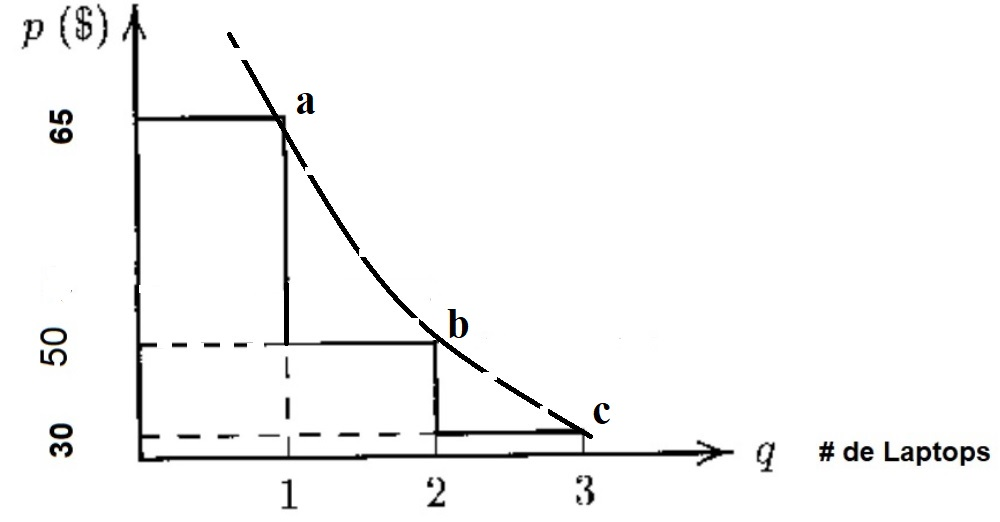
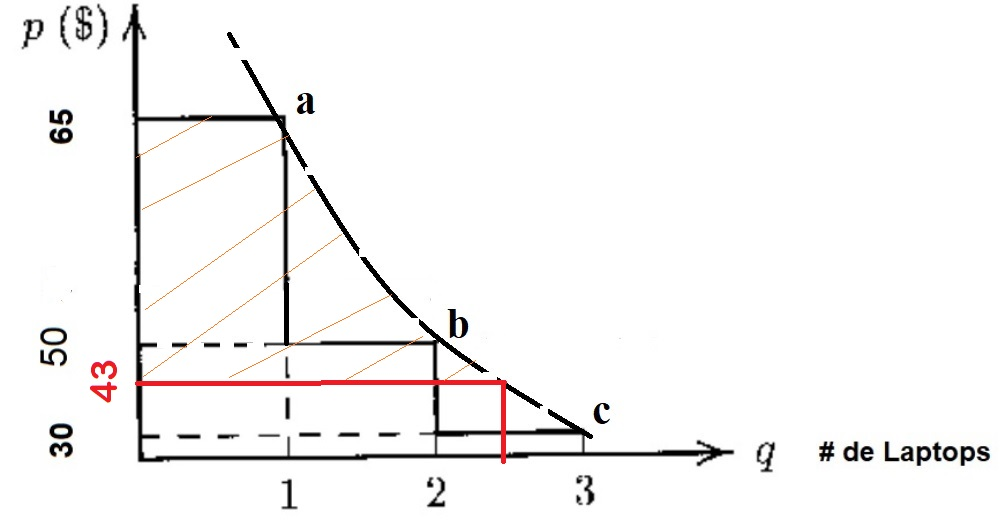
m

diff --git a/content/services/Sesion3.md b/content/services/Sesion3.md
@@ -356,15 +356,14 @@ Observe  el siguiente materia audio visual y analice el caso con base en las pre
 ¿Cuál es el excente del consumidor a un precio de  **\$43K**, la diferencia entre la máxima disponibilidad a pagar y este precio pagado es el excedente del consumidor, en este caso **\$22K**.
 
 
-De igual manera al comprar la segunda computadora, el individuo  "ahorra": **\$7k** respecto de tu **disponibilidad a pagar**  por la segunda que es **\$50K**. 
-
-La suma de estos valores, representa lo que denominamos**el excedente del consumidor**
-
 En términos de la figura 1, el excedente del consumdor es **$22** y está dado por el área bajo la curva de demanda entre el precio pagado, en este caso **p=\$43** y la máxima disponibilidad a pagar. **\$65**.
 
 La curva de demanda en el **mercado** de un bien particular, resume la suma del comportamiento de los consumidores de ese bien, en particular, **resume su relación entre precio** y  disposición a pagar.
 
 La curva de demanda para un mercado particular muestra entonces una **relación inversa entre precio y cantidad demanda** en un escenario contínuo. 
+
+
+![](/images/demandcurve.jpg)
 
 ![](/images/cs.jpg)
 **Figura 2.** Curva de demanda del mercado.
